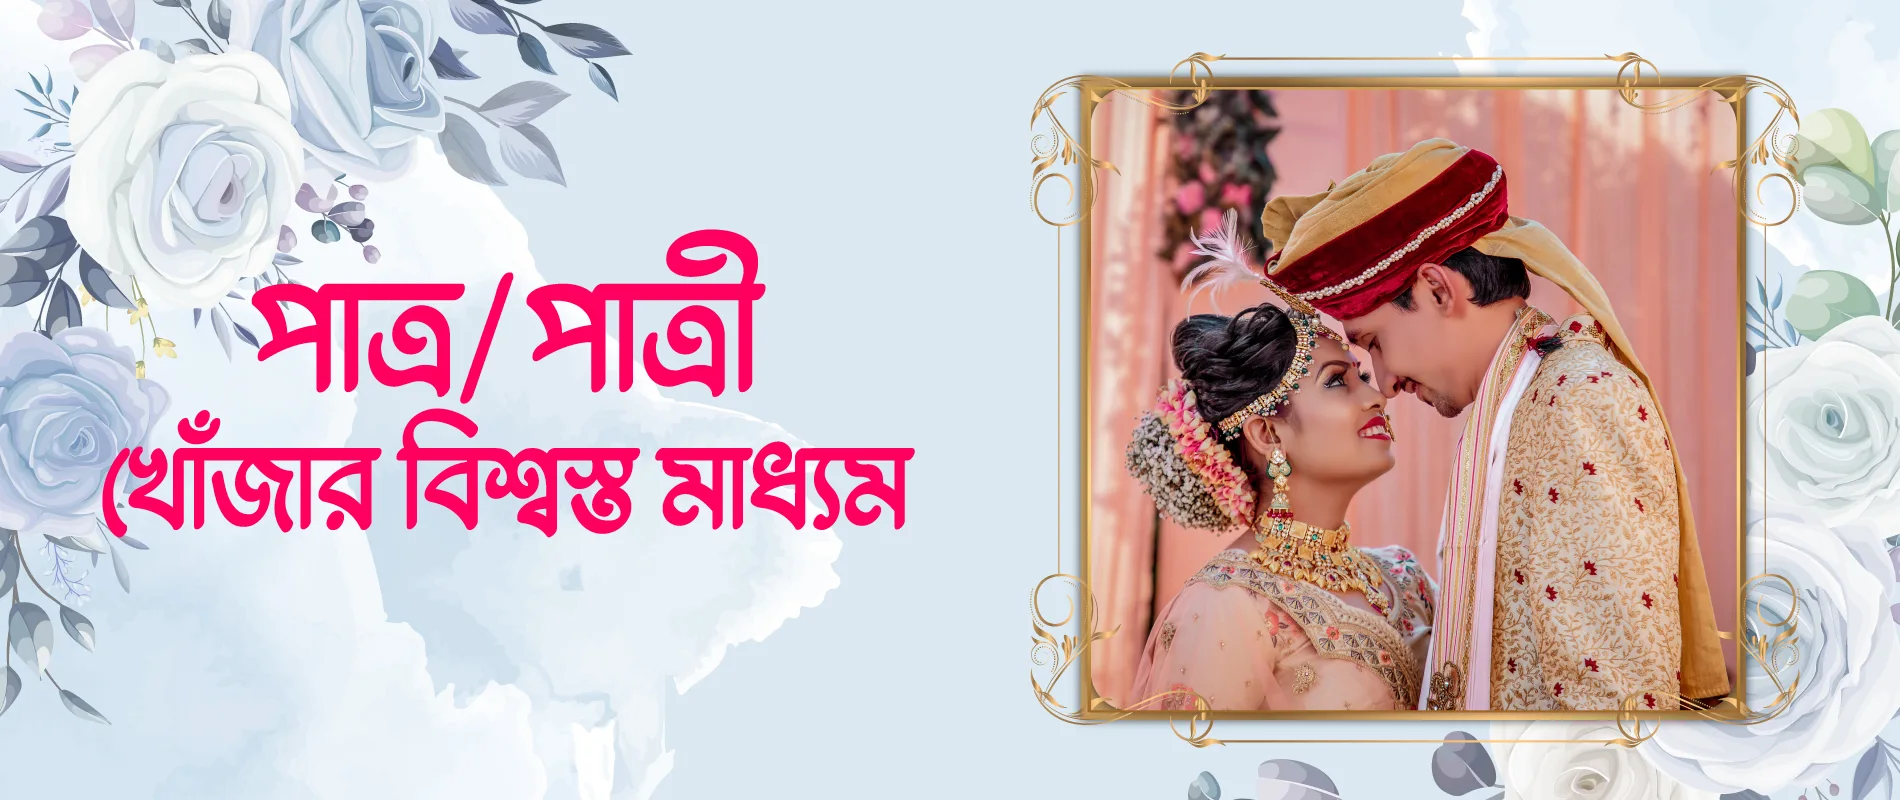
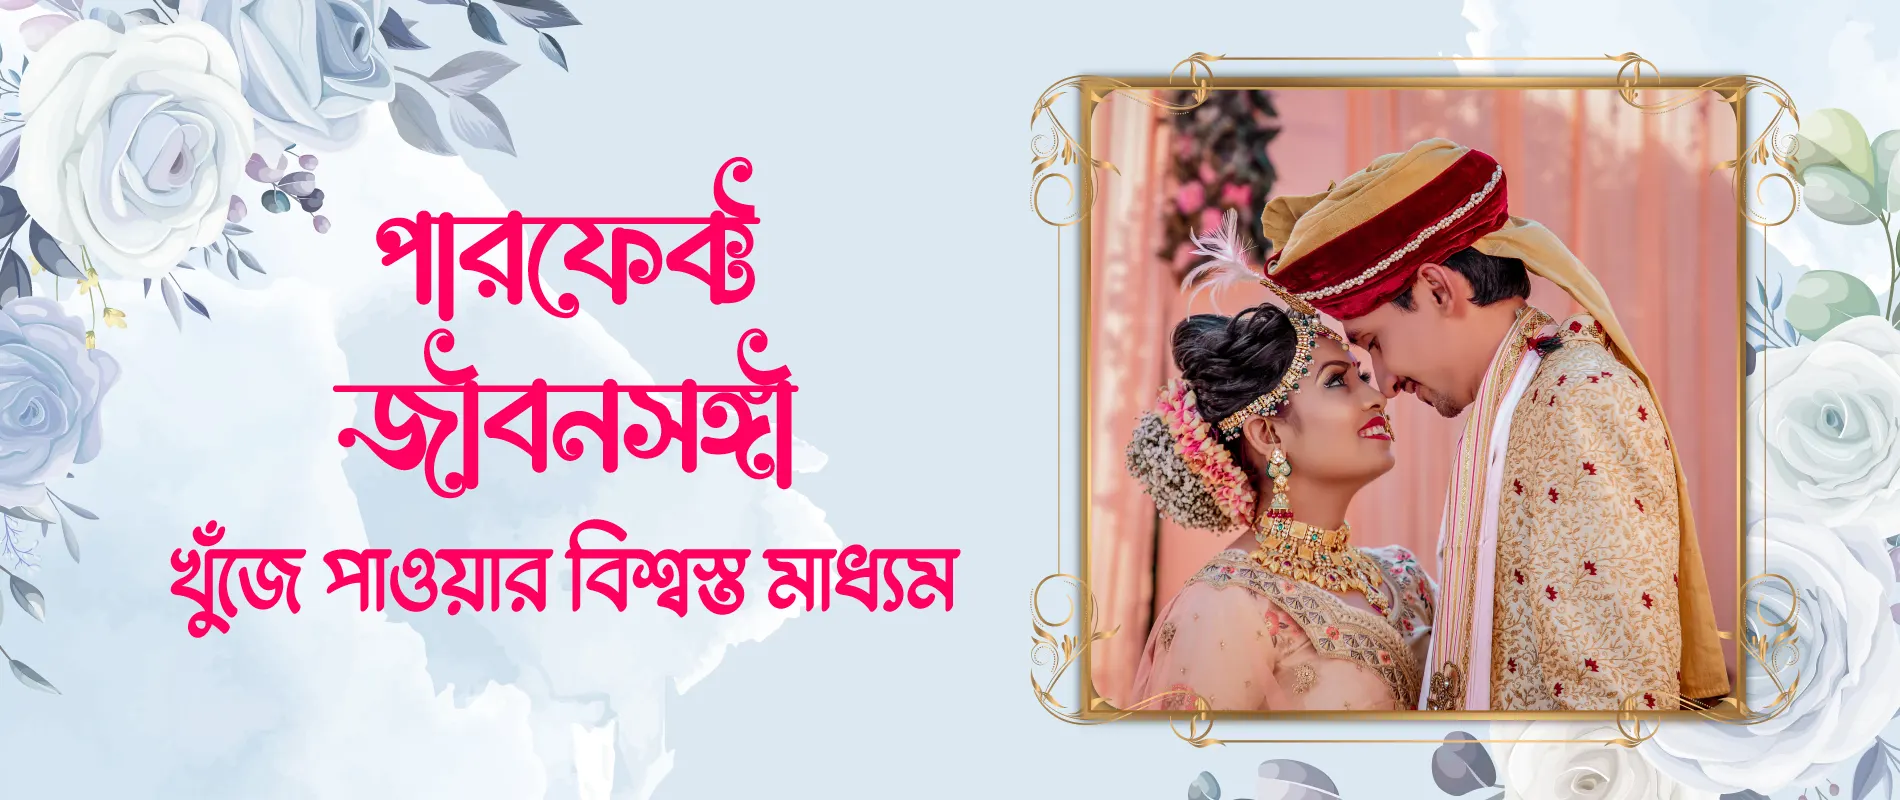
update

Changed region(s): [[0.0, 0.0, 0.5279, 0.9062]]

diff --git a/index.html b/index.html
@@ -31,12 +31,12 @@
     </div>
 
     <div id="slogan" class="text-center">
-        <h2 class="mb-0">পাত্র/পাত্রী খোঁজার বিশ্বস্ত মাধ্যম</h2>
+        <h2 class="mb-0">জীবনসঙ্গী খুঁজে পাওয়ার পারফেক্ট সল্যুশন</h2>
     </div>
 
     <div id="header_section" class="text-center">
         <div class="container">
-            <h4 class="text-center mt-5 text-white">Lorem, ipsum dolor sit amet consectetur adipisicing elit. Deleniti consequatur, veritatis porro nisi dignissimos assumenda velit quas amet expedita delectus?</h4>
+            <h4 class="text-center mt-5 text-white">আপনার পছন্দ অনুযায়ী যে কোন বয়স, ধর্ম ও পেশার যোগ্য পাত্র-পাত্রীর সন্ধান আমরাই দিয়ে থাকি । ম্যাচমেকিংয়ে দীর্ঘ দিনের অভিজ্ঞতাসম্পন্ন ম্যাট্রিমনি বাংলাদেশে পাবেন শতভাগ নিশ্চিত সার্ভিস ।</h4>
         </div>
 
             <div class="container-fluid">
@@ -46,7 +46,7 @@
             </div>
 
             <div class="container">
-                <h3 class="text-center text-white mt-5">Lorem, ipsum dolor sit amet consectetur adipisicing</h3>
+                <h3 class="text-center text-white mt-5">সম্পর্ক সবসময়ই মানবিক হওয়া বাঞ্ছনীয়</h3>
     
                 <a href="#contact_form" id="" class="btn btn-lg my-4 contact_btn">Contact Us</a>
             </div>
@@ -57,7 +57,7 @@
     <div class="container text-center">
         <div id="content_two">
             <h3 class="mb-0">
-                Lorem ipsum dolor sit amet consectetur adipisicing elit. Non eaque ipsa, consectetur est aspernatur pariatur. Rem blanditiis cumque sunt iure praesentium vel culpa.
+                পাত্রের ক্ষেত্রে চাকরি/ব্যবসা, আর্থিক অবস্থা এবং বাসা ও অফিসের ঠিকানা সম্পূর্ণভাবে নিশ্চিত করে থাকি। বিন্দুমাত্র সন্দেহ হলে তাকে আমরা আমাদের সহযোগীতা থেকে বঞ্চিত রাখি। আমাদের সার্ভিস নিয়ে কেউই বলতে পারবে না তারা প্রতারিত হয়েছে। তাই আপনার পরিচিত হওয়া প্রয়োজন আমাদের সাথে।
             </h3>
         </div>
     </div>
@@ -69,43 +69,43 @@
                 <div class="col-lg-4">
                     <div class="service_div">
                         <i class="fa-sharp fa-solid fa-clock"></i>
-                        <h3>Lorem ipsum dolor sit amet</h3>
-                        <p>Lorem ipsum dolor sit amet consectetur adipisicing elit. Blanditiis nostrum nam corrupti aliquid quae maxime!</p>
+                        <h3>নিজে নিজেই খুজে নিন পছন্দের সঙ্গী </h3>
+                        <p>ম্যাট্রিমনি বাংলাদেশ সার্ভিসের ক্ষেত্রে চাইলে নিজেই অ্যাকাউন্ট খুলে খুজে নিতে পারেন আপনার মনেরমত জীবনসঙ্গী ।</p>
                     </div>
                 </div>
                 <div class="col-lg-4">
                     <div class="service_div">
                         <i class="fa-sharp fa-solid fa-clock"></i>
-                        <h3>Lorem ipsum dolor sit amet</h3>
-                        <p>Lorem ipsum dolor sit amet consectetur adipisicing elit. Blanditiis nostrum nam corrupti aliquid quae maxime!</p>
+                        <h3>চ্যাট, ভয়েস এবং ভিডিও কলিং সিস্টেম।</h3>
+                        <p>আমাদের রয়েছে ইমেইল, ফোন, হোয়াটসঅ্যাপ এবং অন্যান্য মাধ্যমে সম্ভাব্য পাত্র/পাত্রীর সাথে যোগাযোগ করার সুবিধা</p>
                     </div>
                 </div>
                 <div class="col-lg-4">
                     <div class="service_div">
                         <i class="fa-sharp fa-solid fa-clock"></i>
-                        <h3>Lorem ipsum dolor sit amet</h3>
-                        <p>Lorem ipsum dolor sit amet consectetur adipisicing elit. Blanditiis nostrum nam corrupti aliquid quae maxime!</p>
+                        <h3>পরিচয় গোপন রেখে সার্ভিস প্রদান</h3>
+                        <p>আপনি যদি চান আপনার পরিচয় গোপন রেখেই  সৎ এবং সঠিক পাত্র/পাত্রির সন্ধান দিব সে ব্যাপারে শতভাগ নিশ্চিত।</p>
                     </div>
                 </div>
                 <div class="col-lg-4">
                     <div class="service_div">
                         <i class="fa-sharp fa-solid fa-clock"></i>
-                        <h3>Lorem ipsum dolor sit amet</h3>
-                        <p>Lorem ipsum dolor sit amet consectetur adipisicing elit. Blanditiis nostrum nam corrupti aliquid quae maxime!</p>
+                        <h3>তথ্যের সঠিক যাচাই নিশ্চিত</h3>
+                        <p>আমরা আপনাকে নিশ্চিত করতে পারি যে আমাদের নিকট পাওয়া তথ্য সম্পূর্ণ সঠিক । তথ্যের কোন অংশে অমিল থাকলে আমরা সেটা  আমাদের ওয়েবসাইটে রাখি না</p>
                     </div>
                 </div>
                 <div class="col-lg-4">
                     <div class="service_div">
                         <i class="fa-sharp fa-solid fa-clock"></i>
-                        <h3>Lorem ipsum dolor sit amet</h3>
-                        <p>Lorem ipsum dolor sit amet consectetur adipisicing elit. Blanditiis nostrum nam corrupti aliquid quae maxime!</p>
+                        <h3>ফ্রি কাউন্সেলিং সেবা</h3>
+                        <p>বিয়ে বিলেটেড যে কোন প্রয়োজনে আমাদের রয়েছে দক্ষ ম্যারেজ কাউন্সেলর। যিনি আপনাকে সর্বোচ্চ সার্ভিস নিশ্চিত করতে সক্ষম</p>
                     </div>
                 </div>
                 <div class="col-lg-4">
                     <div class="service_div">
                         <i class="fa-sharp fa-solid fa-clock"></i>
-                        <h3>Lorem ipsum dolor sit amet</h3>
-                        <p>Lorem ipsum dolor sit amet consectetur adipisicing elit. Blanditiis nostrum nam corrupti aliquid quae maxime!</p>
+                        <h3>কেন আমাদের বেছে নিবেন?</h3>
+                        <p>আমরা দ্রুত পাত্র/পাত্রীর সন্ধান দিতে সক্ষম। বিবাহ সাইটগুলির মধ্যে বৃহত্তম, নিরাপদ এবং সবচেয়ে বিশ্বস্ত সাইটগুলির মধ্যে একটি ৷</p>
                     </div>
                 </div>
             </div>
@@ -116,8 +116,39 @@
     <div class="container text-center">
         <div id="content_three">
             <h3 class="mb-0">
-                Lorem ipsum dolor sit amet consectetur adipisicing elit. Non eaque ipsa, consectetur est aspernatur pariatur. Rem blanditiis cumque sunt iure praesentium vel culpa.
+                আপনার পছন্দ অনুযায়ী যে কোন বয়স, ধর্ম ও পেশার যোগ্য পাত্র-পাত্রীর সন্ধান আমরাই দিয়ে থাকি । ম্যাচমেকিংয়ে দীর্ঘ দিনের অভিজ্ঞতাসম্পন্ন ম্যাট্রিমনি বাংলাদেশে পাবেন শতভাগ নিশ্চিত সার্ভিস।
             </h3>
+        </div>
+    </div>
+
+    <div id="portfolio_image">
+        <div class="container">
+            <div class="row">
+                <div class="col-lg-3 mt-4">
+                    <img src="./img/img1.jpg" alt="">
+                </div>
+                <div class="col-lg-3 mt-4">
+                    <img src="./img/img2.jpg" alt="">
+                </div>
+                <div class="col-lg-3 mt-4">
+                    <img src="./img/img3.jpg" alt="">
+                </div>
+                <div class="col-lg-3 mt-4">
+                    <img src="./img/img4.jpg" alt="">
+                </div>
+                <div class="col-lg-3 mt-4">
+                    <img src="./img/img5.jpg" alt="">
+                </div>
+                <div class="col-lg-3 mt-4">
+                    <img src="./img/img6.jpg" alt="">
+                </div>
+                <div class="col-lg-3 mt-4">
+                    <img src="./img/img7.jpg" alt="">
+                </div>
+                <div class="col-lg-3 mt-4">
+                    <img src="./img/img8.jpg" alt="">
+                </div>
+            </div>
         </div>
     </div>
 

diff --git a/css/style.css b/css/style.css
@@ -16,6 +16,7 @@
 body {
   background-color: var(--background-color);
   font-family: "Righteous", cursive;
+  font-family: "Hind Siliguri", Sans-serif;
 }
 
 a {
@@ -77,6 +78,7 @@ a {
 }
 #header_section .container h4 {
   color: var(--font-color-one);
+  font-size: 35px;
 }
 #header_section .container .head_img {
   padding-top: 20px;
@@ -88,6 +90,9 @@ a {
 #header_section .container .contact_btn:hover {
   outline: none;
   background-color: var(--font-color-two);
+}
+#header_section .container h3 {
+  font-size: 35px;
 }
 #header_section .head_img {
   padding-top: 30px;
@@ -141,6 +146,15 @@ a {
 }
 #service_section .service_div p {
   font-size: 18px;
+}
+
+#portfolio_image {
+  margin-top: 30px;
+}
+#portfolio_image img {
+  width: 100%;
+  height: 200px;
+  border-radius: 10px;
 }
 
 #content_three {

diff --git a/css/style.scss b/css/style.scss
@@ -17,6 +17,7 @@
 body{
     background-color: var(--background-color);
     font-family: 'Righteous', cursive;
+    font-family: "Hind Siliguri", Sans-serif;
 }
 
 a{
@@ -93,6 +94,7 @@ a{
     .container{
         h4{
             color: var(--font-color-one);
+            font-size: 35px;
         }
         .head_img{
             padding-top: 20px;
@@ -104,6 +106,9 @@ a{
         .contact_btn:hover{
             outline: none;
             background-color: var(--font-color-two);
+        }
+        h3{
+            font-size: 35px;
         }
     }
     .head_img{
@@ -162,6 +167,15 @@ a{
         p{
             font-size: 18px;
         }
+    }
+}
+
+#portfolio_image{
+    margin-top: 30px;
+    img{
+        width: 100%;
+        height: 200px;
+        border-radius: 10px;
     }
 }
 
